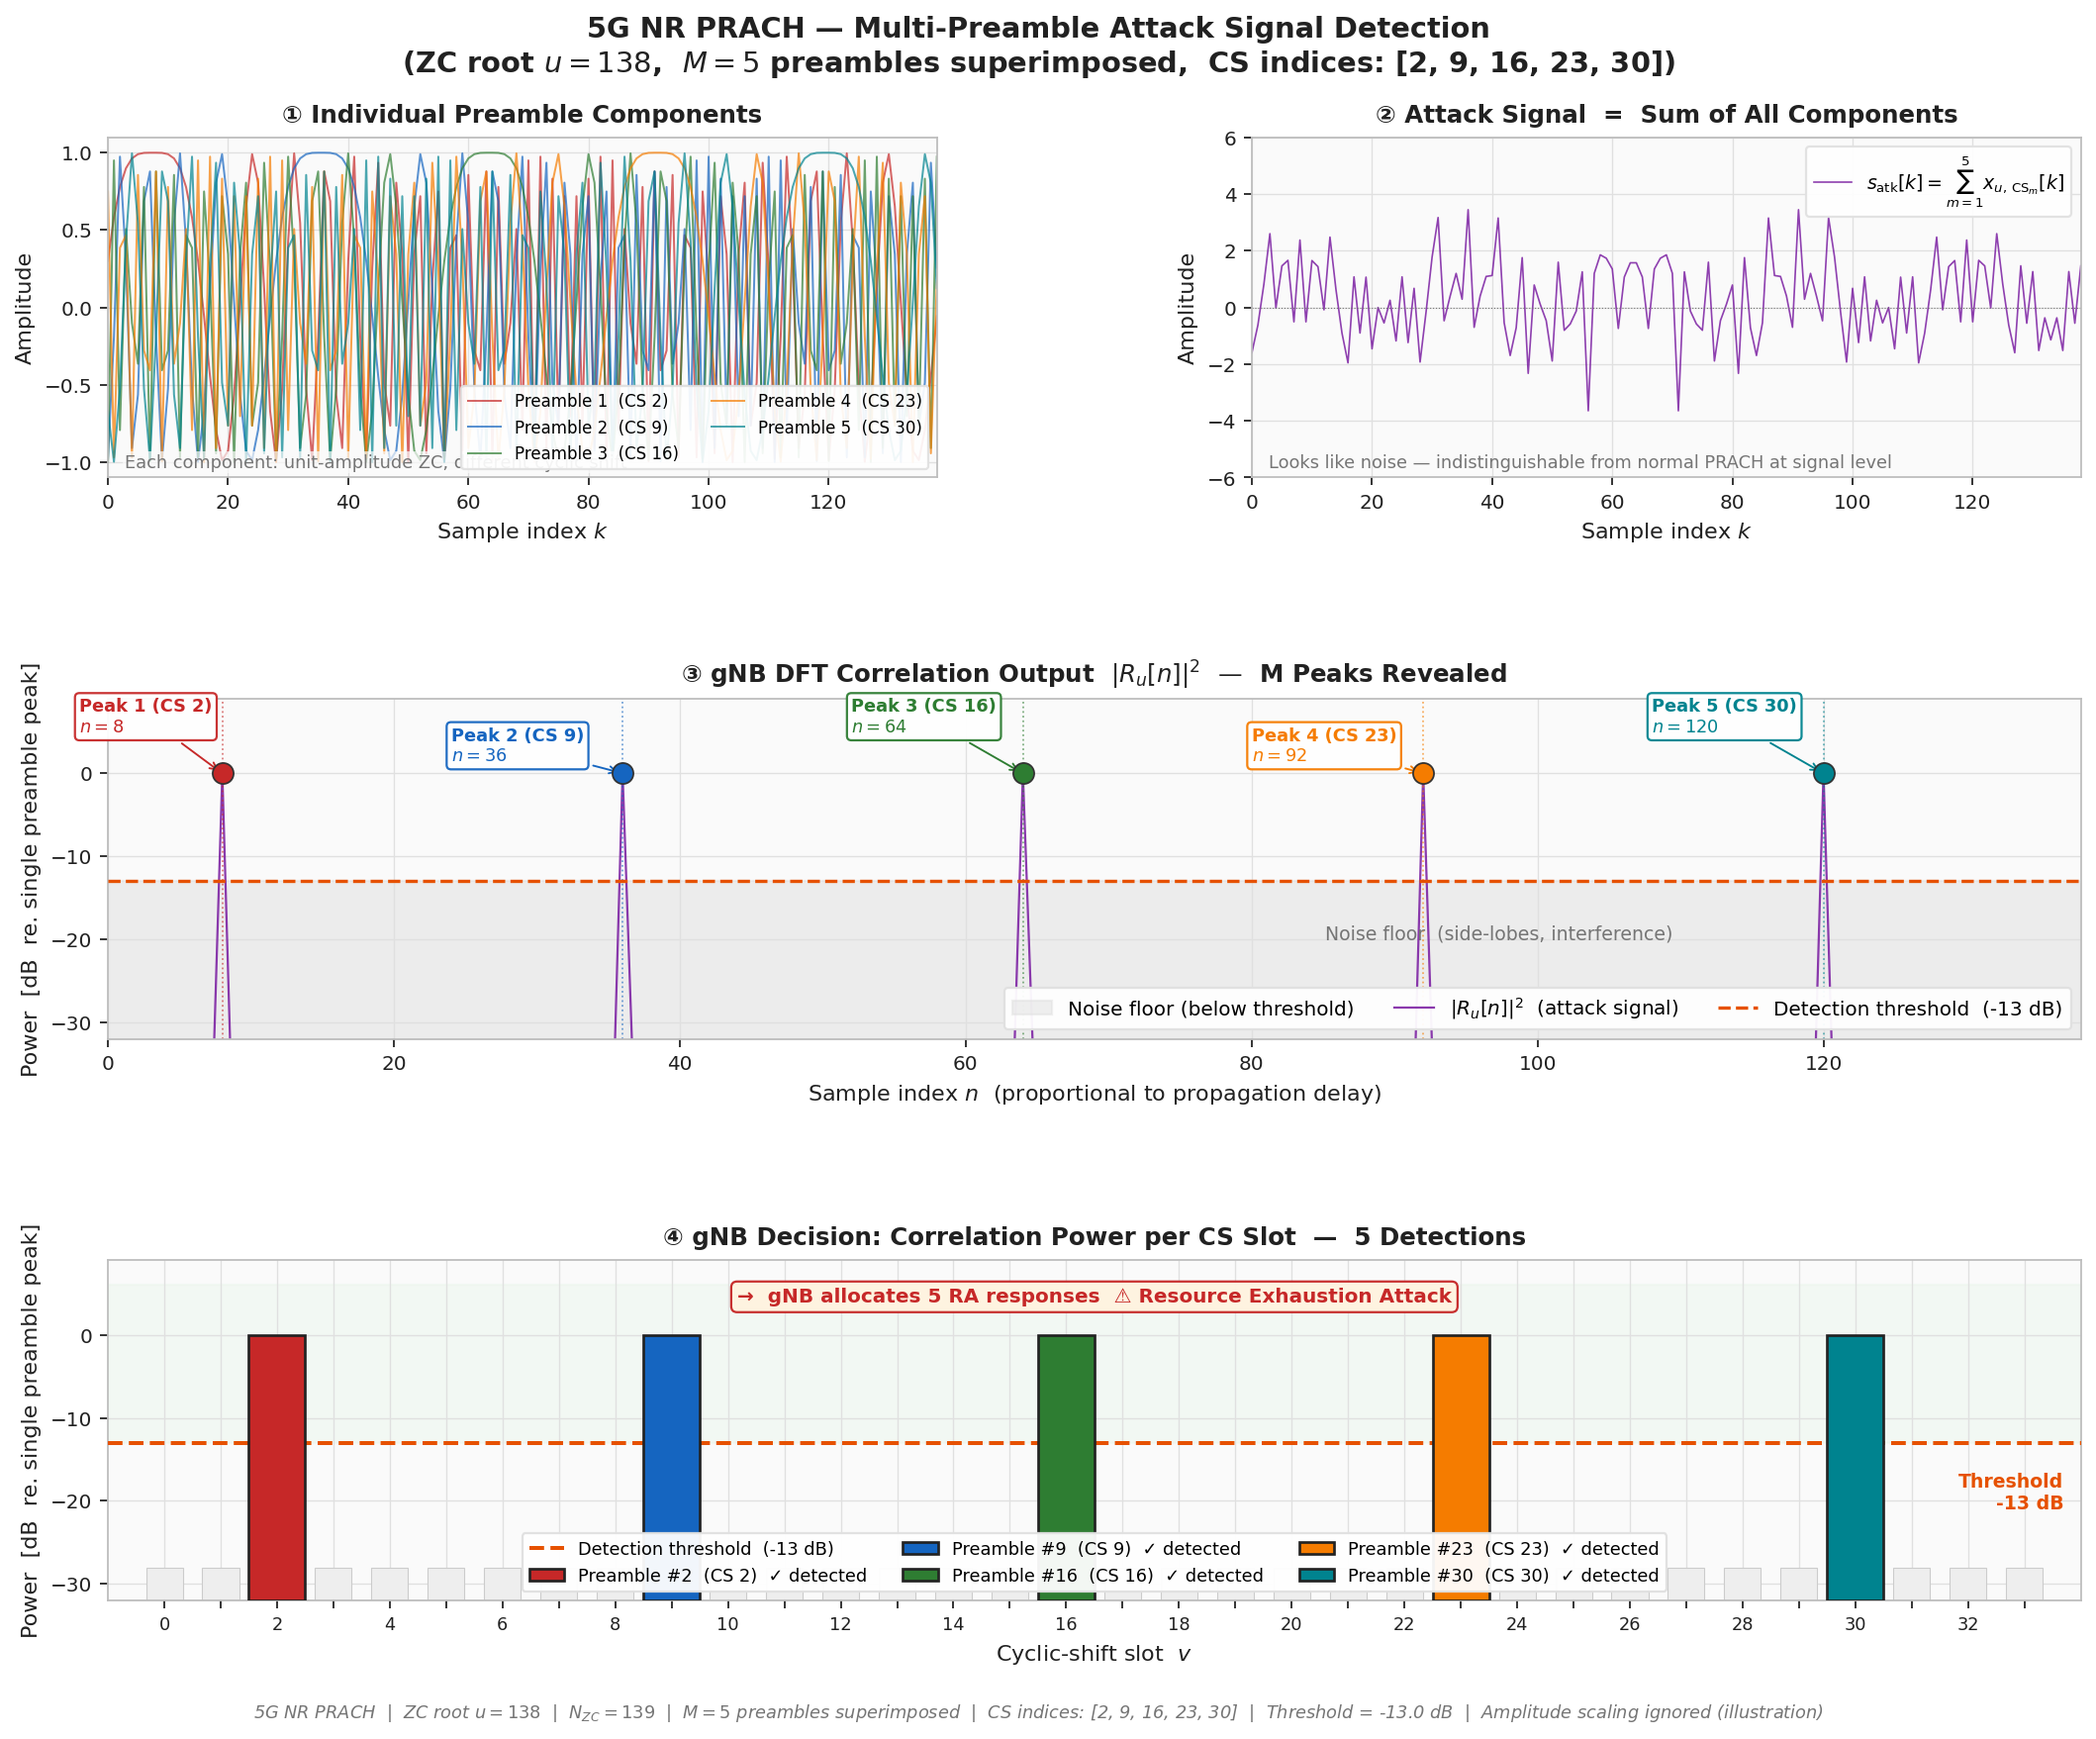
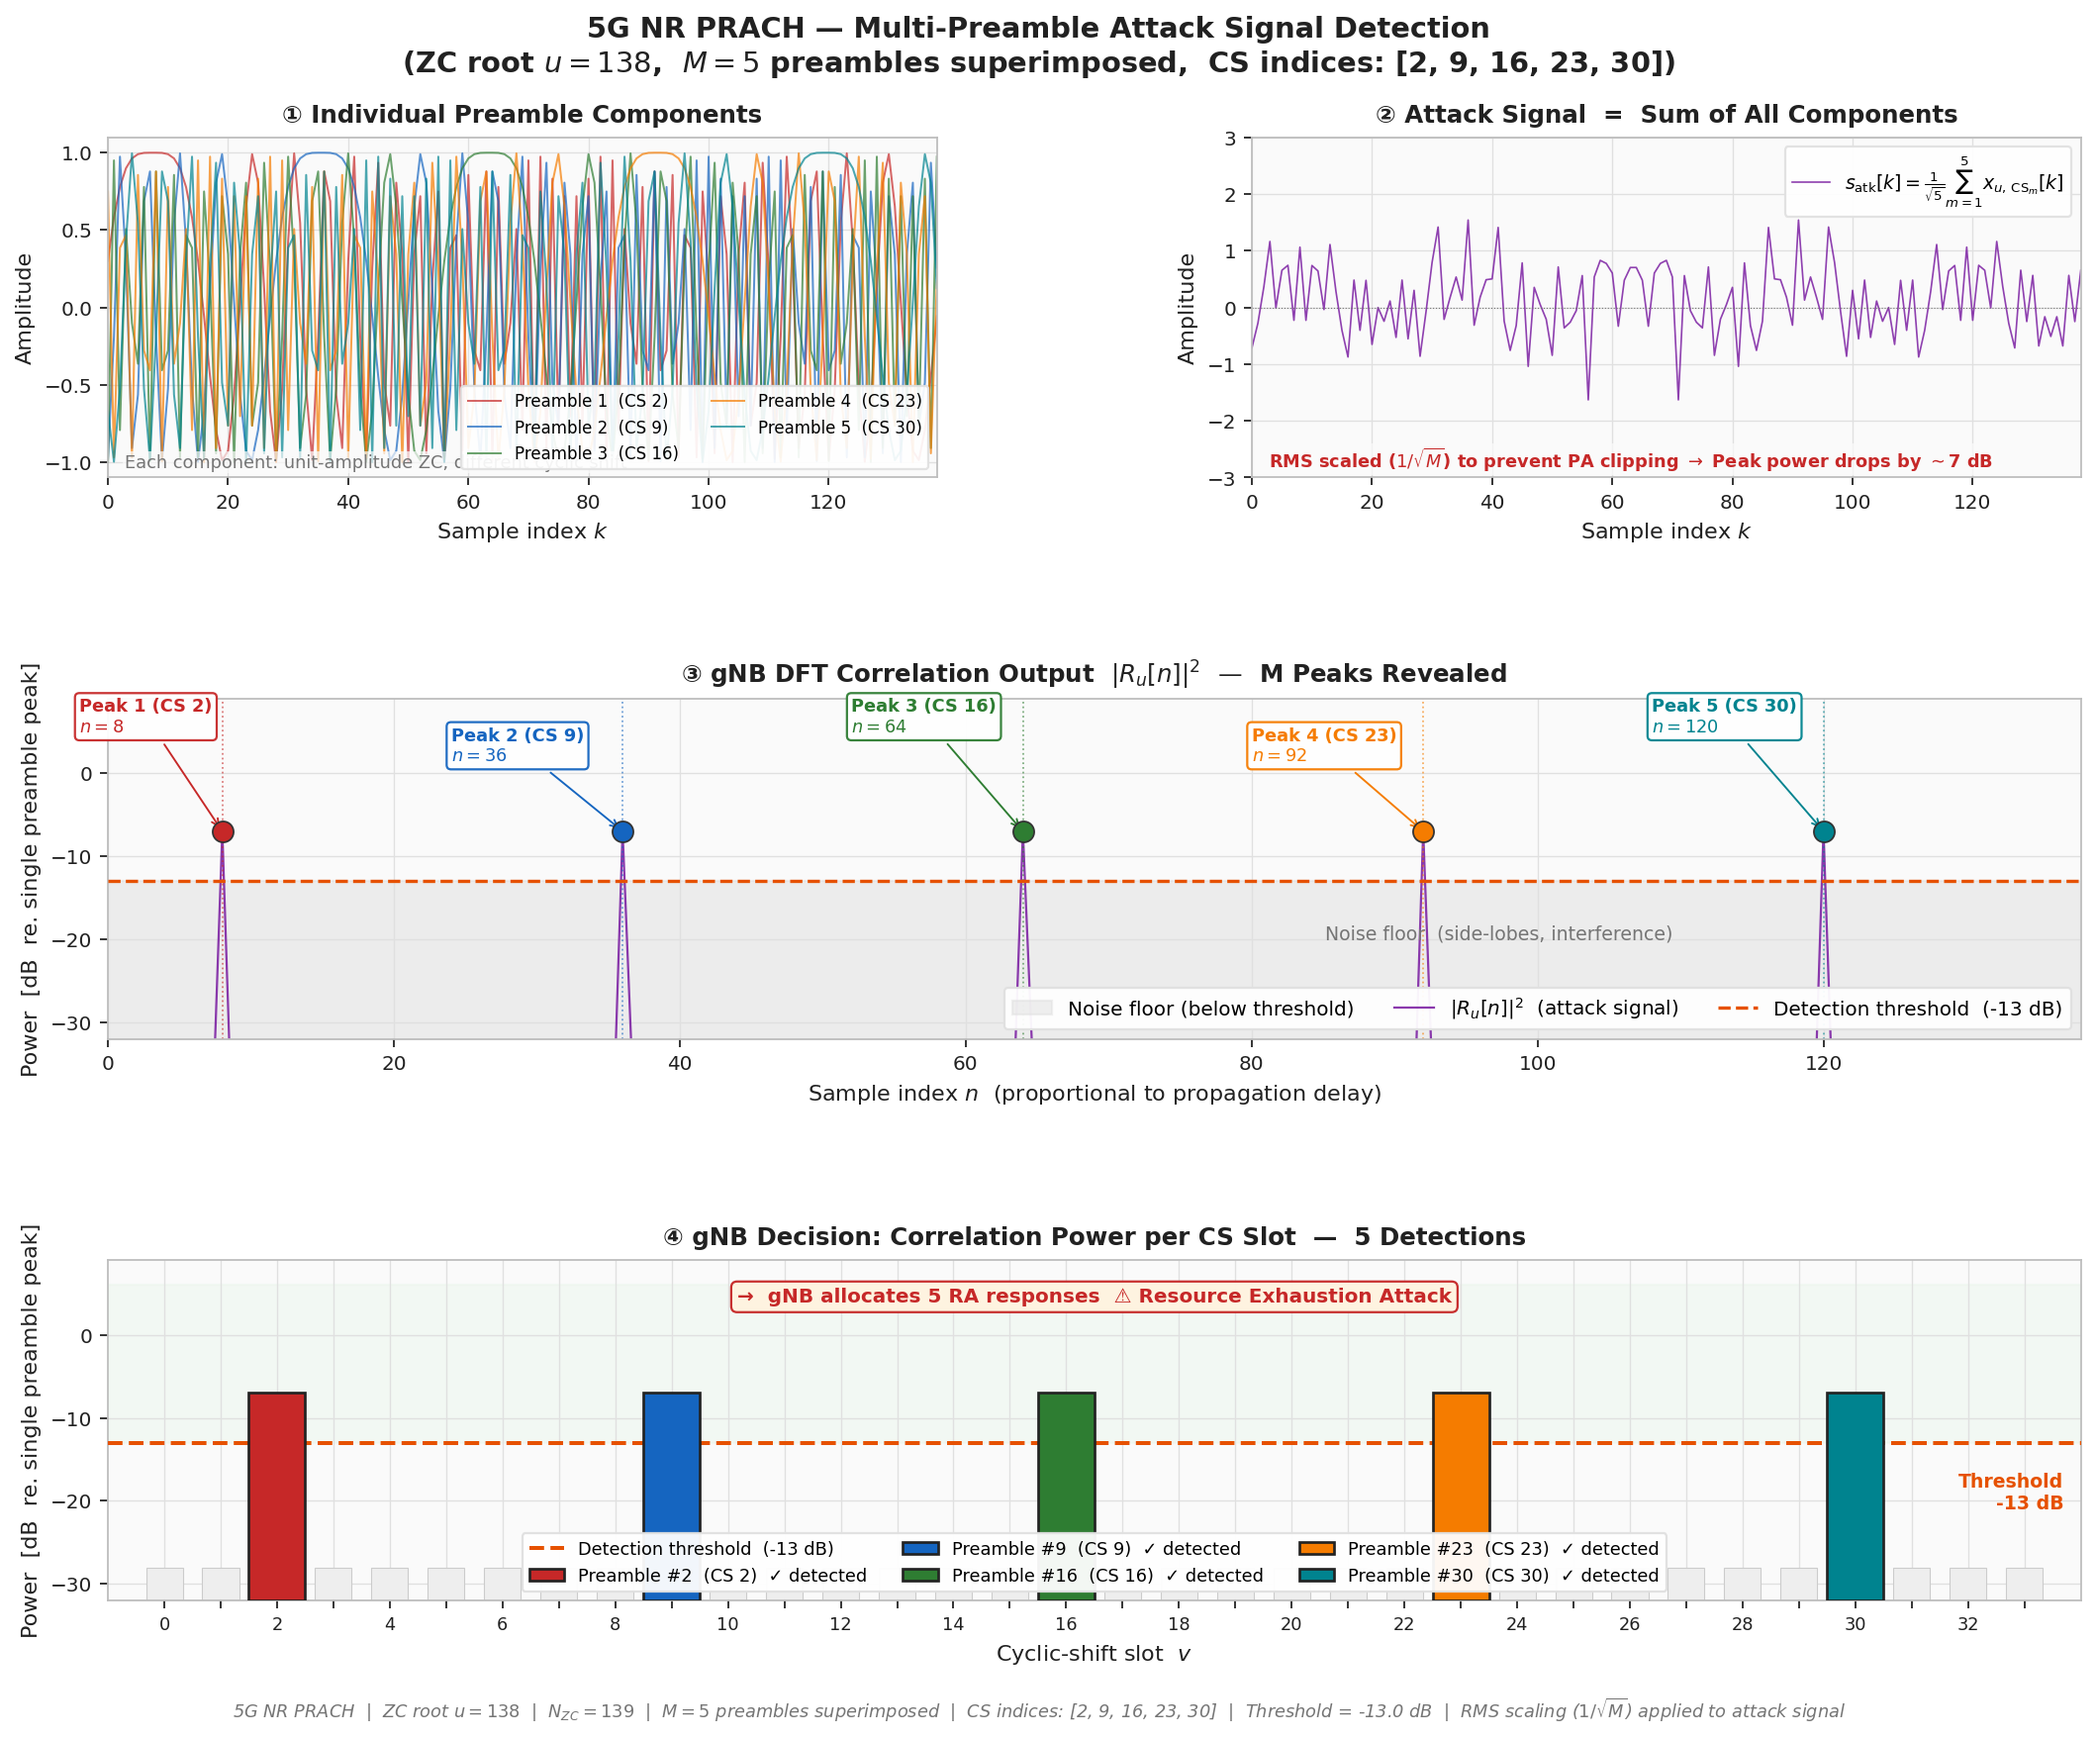
analysis preambleˇ

diff --git a/0420/plot_attack_prach_5.py b/0420/plot_attack_prach_5.py
@@ -59,11 +59,13 @@ def correlate(rx, u, N):
 # Build signals
 # ─────────────────────────────────────────────────────────────────────────────
 preambles = [make_preamble(ROOT_U, N_ZC, cs, CS_STEP) for cs in CS_IDX]
-s_attack  = sum(preambles)
+# Apply RMS normalization (1 / sqrt(M)) to prevent hardware clipping
+s_attack  = sum(preambles) / np.sqrt(M)
 noise     = (np.random.randn(N_ZC) + 1j * np.random.randn(N_ZC)) * NOISE_STD
 rx        = s_attack + noise
 
 corr_full = correlate(rx, ROOT_U, N_ZC)
+# reference is the peak power of a SINGLE, UNSCALED preamble
 ref_single = correlate(preambles[0], ROOT_U, N_ZC).max()
 
 def to_db(x):
@@ -143,17 +145,18 @@ style(axB,
       "Sample index $k$", "Amplitude")
 
 axB.plot(x_full, s_attack.real, color=C_ATK, linewidth=0.75, alpha=0.85,
-         label=rf"$s_{{\mathrm{{atk}}}}[k] = \sum_{{m=1}}^{{{M}}} x_{{u,\,\mathrm{{CS}}_m}}[k]$")
+         label=rf"$s_{{\mathrm{{atk}}}}[k] = \frac{{1}}{{\sqrt{{{M}}}}} \sum_{{m=1}}^{{{M}}} x_{{u,\,\mathrm{{CS}}_m}}[k]$")
 axB.axhline(0, color=C_MUTED, linewidth=0.5, linestyle=":")
 axB.set_xlim(0, N_ZC - 1)
 
-# Ensure y-axis scales properly for 5 superimposed signals (could reach +- 5)
-axB.set_ylim(-M-1, M+1)
+# Amp should be bounded near [-2, 2] after RMS scaling for M=5
+axB.set_ylim(-3, 3)
 
 axB.legend(loc="upper right", framealpha=0.92, edgecolor=C_GRID, fontsize=8.5)
 axB.text(0.02, 0.03,
-         "Looks like noise — indistinguishable from normal PRACH at signal level",
-         transform=axB.transAxes, color=C_MUTED, fontsize=8)
+         r"RMS scaled ($1/\sqrt{M}$) to prevent PA clipping $\rightarrow$ Peak power drops by $\sim$7 dB",
+         transform=axB.transAxes, color="#C62828", fontsize=8, fontweight="bold",
+         bbox=dict(pad=1, fc=C_PANEL, ec="none", alpha=0.7))
 
 # ─────────────────────────────────────────────────────────────────────────────
 # Panel ③ – Full DFT correlation output (all M peaks visible)
@@ -256,7 +259,7 @@ fig.text(
     0.5, 0.003,
     f"5G NR PRACH  |  ZC root $u = {ROOT_U}$  |  $N_{{ZC}} = {N_ZC}$  |  "
     f"$M = {M}$ preambles superimposed  |  CS indices: {CS_IDX}  |  "
-    f"Threshold = {THR_DB} dB  |  Amplitude scaling ignored (illustration)",
+    f"Threshold = {THR_DB} dB  |  RMS scaling ($1/\\sqrt{{M}}$) applied to attack signal",
     ha="center", fontsize=8, color=C_MUTED, style="italic"
 )
 

diff --git a/0420/readme.md b/0420/readme.md
@@ -37,7 +37,52 @@ I/Q 非恆定包絡只是攻擊訊號的「外觀」特徵，對 gNB 的 DFT 相
 
 ![alt text](image.png)
 
+為什麼一定要縮放？(Hardware Constraints)
+在我們的模擬中，單一 ZC Preamble 的振幅（Amplitude）是 1。 如果你把 5 個 Preamble 直接疊加起來，某些取樣點的振幅會疊加到 5（如圖 ② 的 Y 軸所示）。
 
+如果不縮放：當你把這個訊號送進 SDR（例如 USRP）的 DAC（數位類比轉換器）和 PA（功率放大器）時，硬體能夠接受的輸入範圍通常是 [-1.0, 1.0]。振幅超過 1 的部分會被硬體強制「削頂（Clipping）」。
+Clipping 的災難：削頂是一種嚴重的「非線性失真」。這會破壞 ZC 序列的完美正交性，產生大量的雜訊（Intermodulation distortion），結果就是 gNB 端的 noise floor 會整個暴增，最後 5 個 Peak 都會被自己的雜訊淹沒而偵測不到。
+
+
+實務上該怎麼縮放？
+為了避免 Clipping，通常有兩種常見的縮放方式：
+
+Peak Normalization (除以 $M$)：把疊加後的訊號除以 $M$ (這裡是 5)。這樣可以「保證」最大振幅絕對不會超過 1。這是最安全的做法。
+RMS Normalization (除以 $\sqrt{M}$)：因為 5 個 preamble 的相位是亂數疊加的，它看起來像高斯雜訊（OFDM 的 PAPR 特性），所以除以 $\sqrt{5}$ 就可以讓「總平均發射功率」保持不變（與單一 preamble 時相同）。
+3. 對 gNB Detection 的影響是什麼？(Power Penalty)
+這就是攻擊者的代價（Trade-off）。gNB 的相關接收器（Correlator）是一個高度**線性（Linear）**的系統：
+
+如果你發送訊號時，把整個訊號乘上一個係數 $c$ （例如 $c = 1/\sqrt{5}$）。
+到了 gNB 端，算出來的每個 Peak 功率，就會下降 $c^2$ 的倍數。
+
+
+對 gNB Detection 的影響是什麼？(Power Penalty)
+這就是攻擊者的代價（Trade-off）。gNB 的相關接收器（Correlator）是一個高度**線性（Linear）**的系統：
+
+如果你發送訊號時，把整個訊號乘上一個係數 $c$ （例如 $c = 1/\sqrt{5}$）。
+到了 gNB 端，算出來的每個 Peak 功率，就會下降 $c^2$ 的倍數。
+具體影響：
+
+假設你本來打 1 個 Preamble，gNB 收到的 Peak Power 是 $0$ dB。
+現在你疊加了 5 個，為了硬體不爆掉，你把總訊號除以 $\sqrt{5}$。
+那麼到了 gNB，這 5 個 Peak 雖然都能被完美分開，但每一個 Peak 的 Power 都會下降約 7 dB ($10 \log_{10}(1/5) \approx -7$ dB)。
+如果除以 5 (Peak normalization)，每個 Peak 甚至會下降 14 dB。
+
+
+### 📡 RMS Scaling: Preamble 疊加數量與接收衰減速查表
+
+| 疊加數量 ($M$) | 縮放係數 ($1/\sqrt{M}$) | 每個 Peak 掉餘的 dB 數 ($\Delta P$) | 實務攻擊含意 (假設 gNB Threshold = -13 dB) |
+| :---: | :---: | :---: | :--- |
+| **1** | $1.00$ | **$0.0$ dB** | 正常連線，全功率發射 |
+| **2** | $0.71$ | **$-3.0$ dB** | 損失了一半的能量（-3 dB），依然極易被偵測 |
+| **3** | $0.58$ | **$-4.8$ dB** | 攻擊 3 個 slot，訊號仍非常健康 |
+| **4** | $0.50$ | **$-6.0$ dB** | 四分之一功率。如果 SNR 佳，仍遠高於閾值 |
+| **5** | $0.45$ | **$-7.0$ dB** | 五連波攻擊，Peak 高度來到約 -7 dB |
+| **6** | $0.41$ | **$-7.8$ dB** | |
+| **8** | $0.35$ | **$-9.0$ dB** | |
+| **10** | $0.32$ | **$-10.0$ dB** | 十連波！功率衰減 10 dB，開始逼近 Threshold |
+| **16** | $0.25$ | **$-12.0$ dB** | 接近極限！若距離稍遠，可能會掉下 -13 dB 的閾值 |
+| **34** | $0.17$ | **$-15.3$ dB** | **塞滿整個 PRACH！** 但預計完全低於 -13 dB Threshold，攻擊會**全部失效** (gNB 把一切當作雜訊) |
 
 The proposed attacker modifies the signal generation process to aggregate $M$ distinct preambles. The combined frequency-domain signal $Y_{attack}[k]$ constructed by the attacker is given by:
 \begin{equation}
